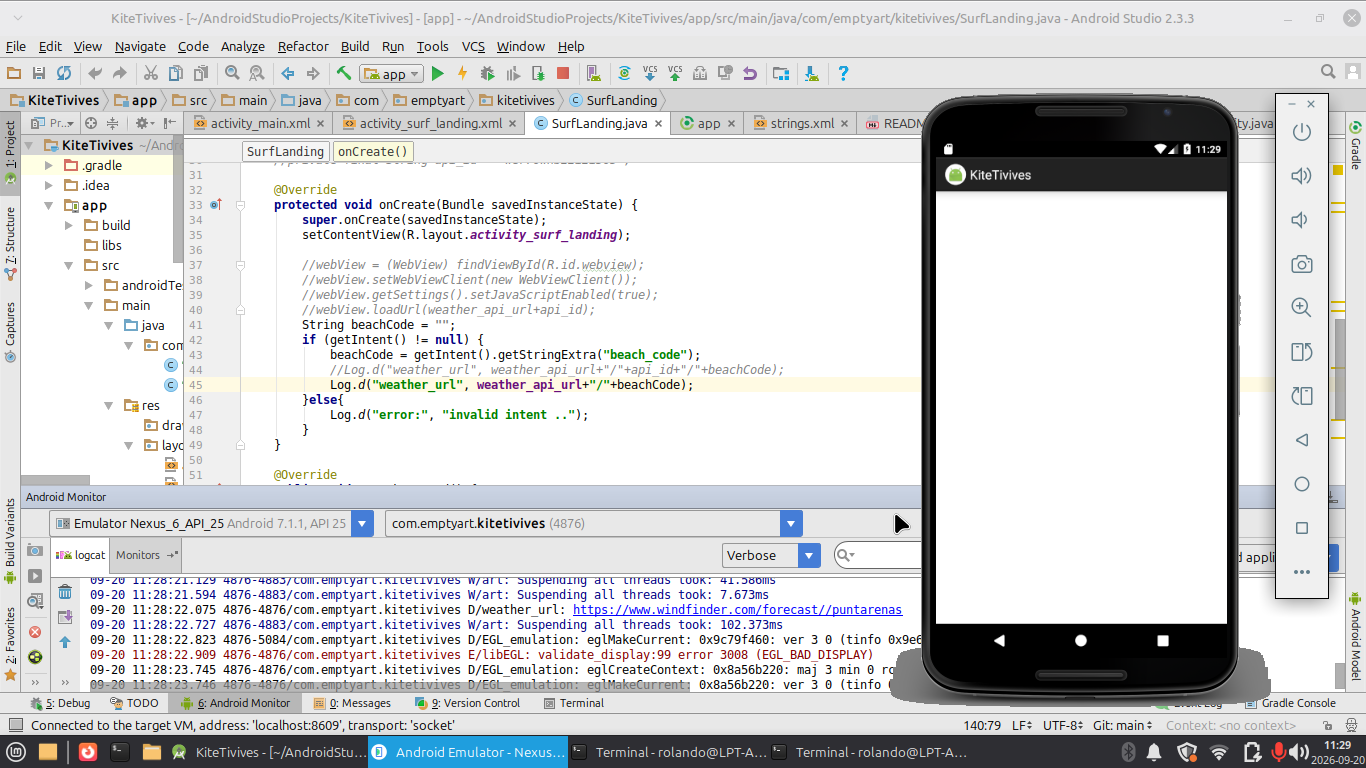
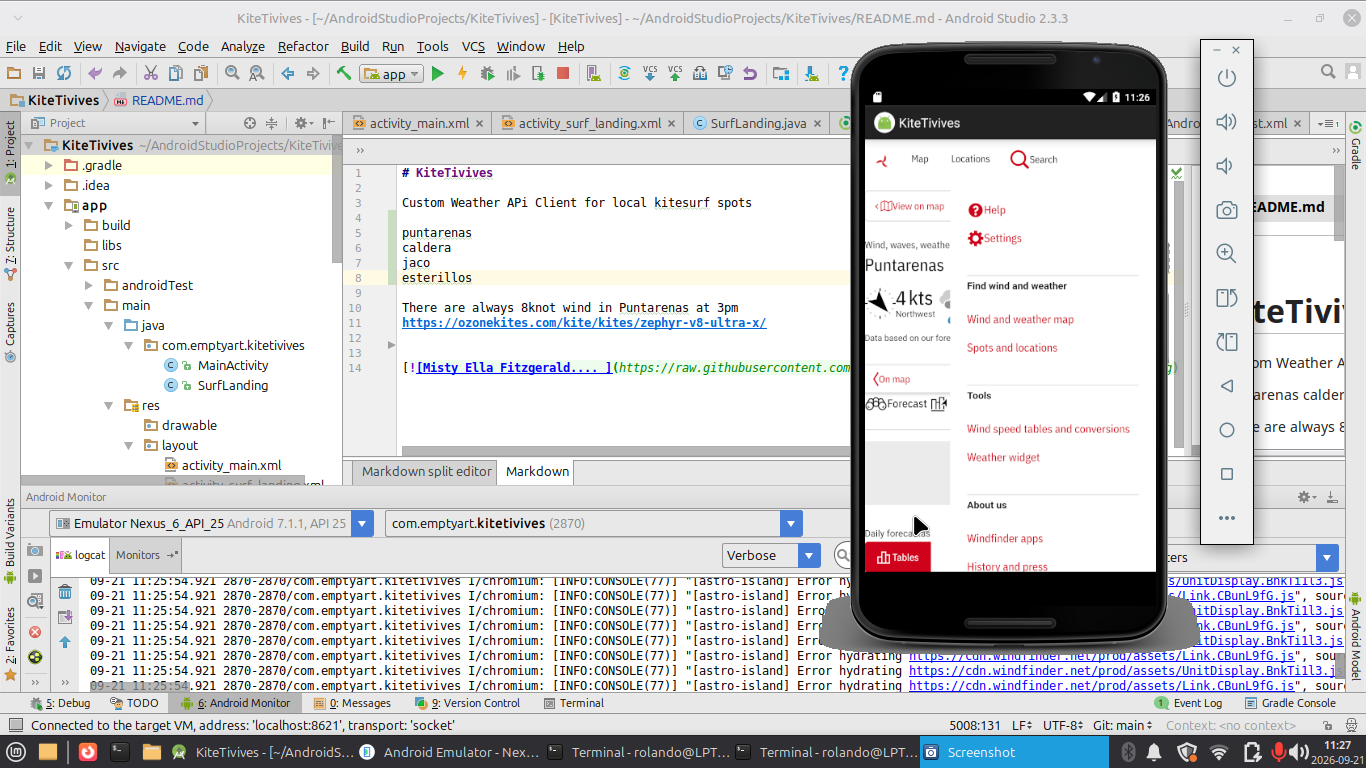
natalia la de canal 7 fuma mota cuando pasa por la peregrina ..

diff --git a/README.md b/README.md
@@ -1,28 +1,14 @@
 # KiteTivives
 
-Custom Weather APi Client for local kitesurf spots
+Custom Winfinder Launcher for local kitesurf spots
+
+puntarenas
+caldera 
+jaco 
+esterillos
 
 There are always 8knot wind in Puntarenas at 3pm
 https://ozonekites.com/kite/kites/zephyr-v8-ultra-x/
-
-En la Puntarenas vieja habia oro en Barranca y Espaza , los barrenos de diamante
-dejaron muchos pozos botando agua electrica de lavar material, hubo un deslizamiento 
-en San ramon que tapo el rio y acumulo demasiada agua que se rompio y provoco un cataclismo
-El temblor rompio los diques de Salinas donde el Cerro de caldera era una isla
-Tifoidea de los años 20 , el canal de Nicaragua dejaba pasar Barcos por otra zona de tiempo
-pero en el paso llevaba mucha agua del caribe que provocaba un oleaje muy peligroso que se ve marcado en esterillos
-
-El espartan boy enterrado en cemento hidraulico me conto todo eso , dijo que el padre de esparza no perdona lesbianas 
-que prostituyen y algunas matadas fueron incineradas en fray casiano en una epoca donde en CostaRica hubo muchisimos
-españoles refugiados de la guerra civil española.
-
-Matados en barcos chilenos, prisioneros que honduras mato en el mar, la carros ticos los hacen en barcos que andan cerca de caldera.
-playos peruanos pescadores castarados con capitana reina que lleva su galan , mataron un compa solo porque tenia novia 
-y el mercado de barcos cocina es para locos castarados.
-
-Yo le dije. -Espartan boy , espartan boy, su historia da mucha ira , los de la comisaria no me van a creer
-los del oij dicen que ponga la denuncia. El espartan boy contesto. --hijueputas nicas, mataron empresarios 
-en sanantonio de belen por robarles unas planillas pagadas en el exterior.
 
 
 [![Misty Ella Fitzgerald.... ](https://raw.githubusercontent.com/rgarro/KiteTivives/refs/heads/main/screen.png)
